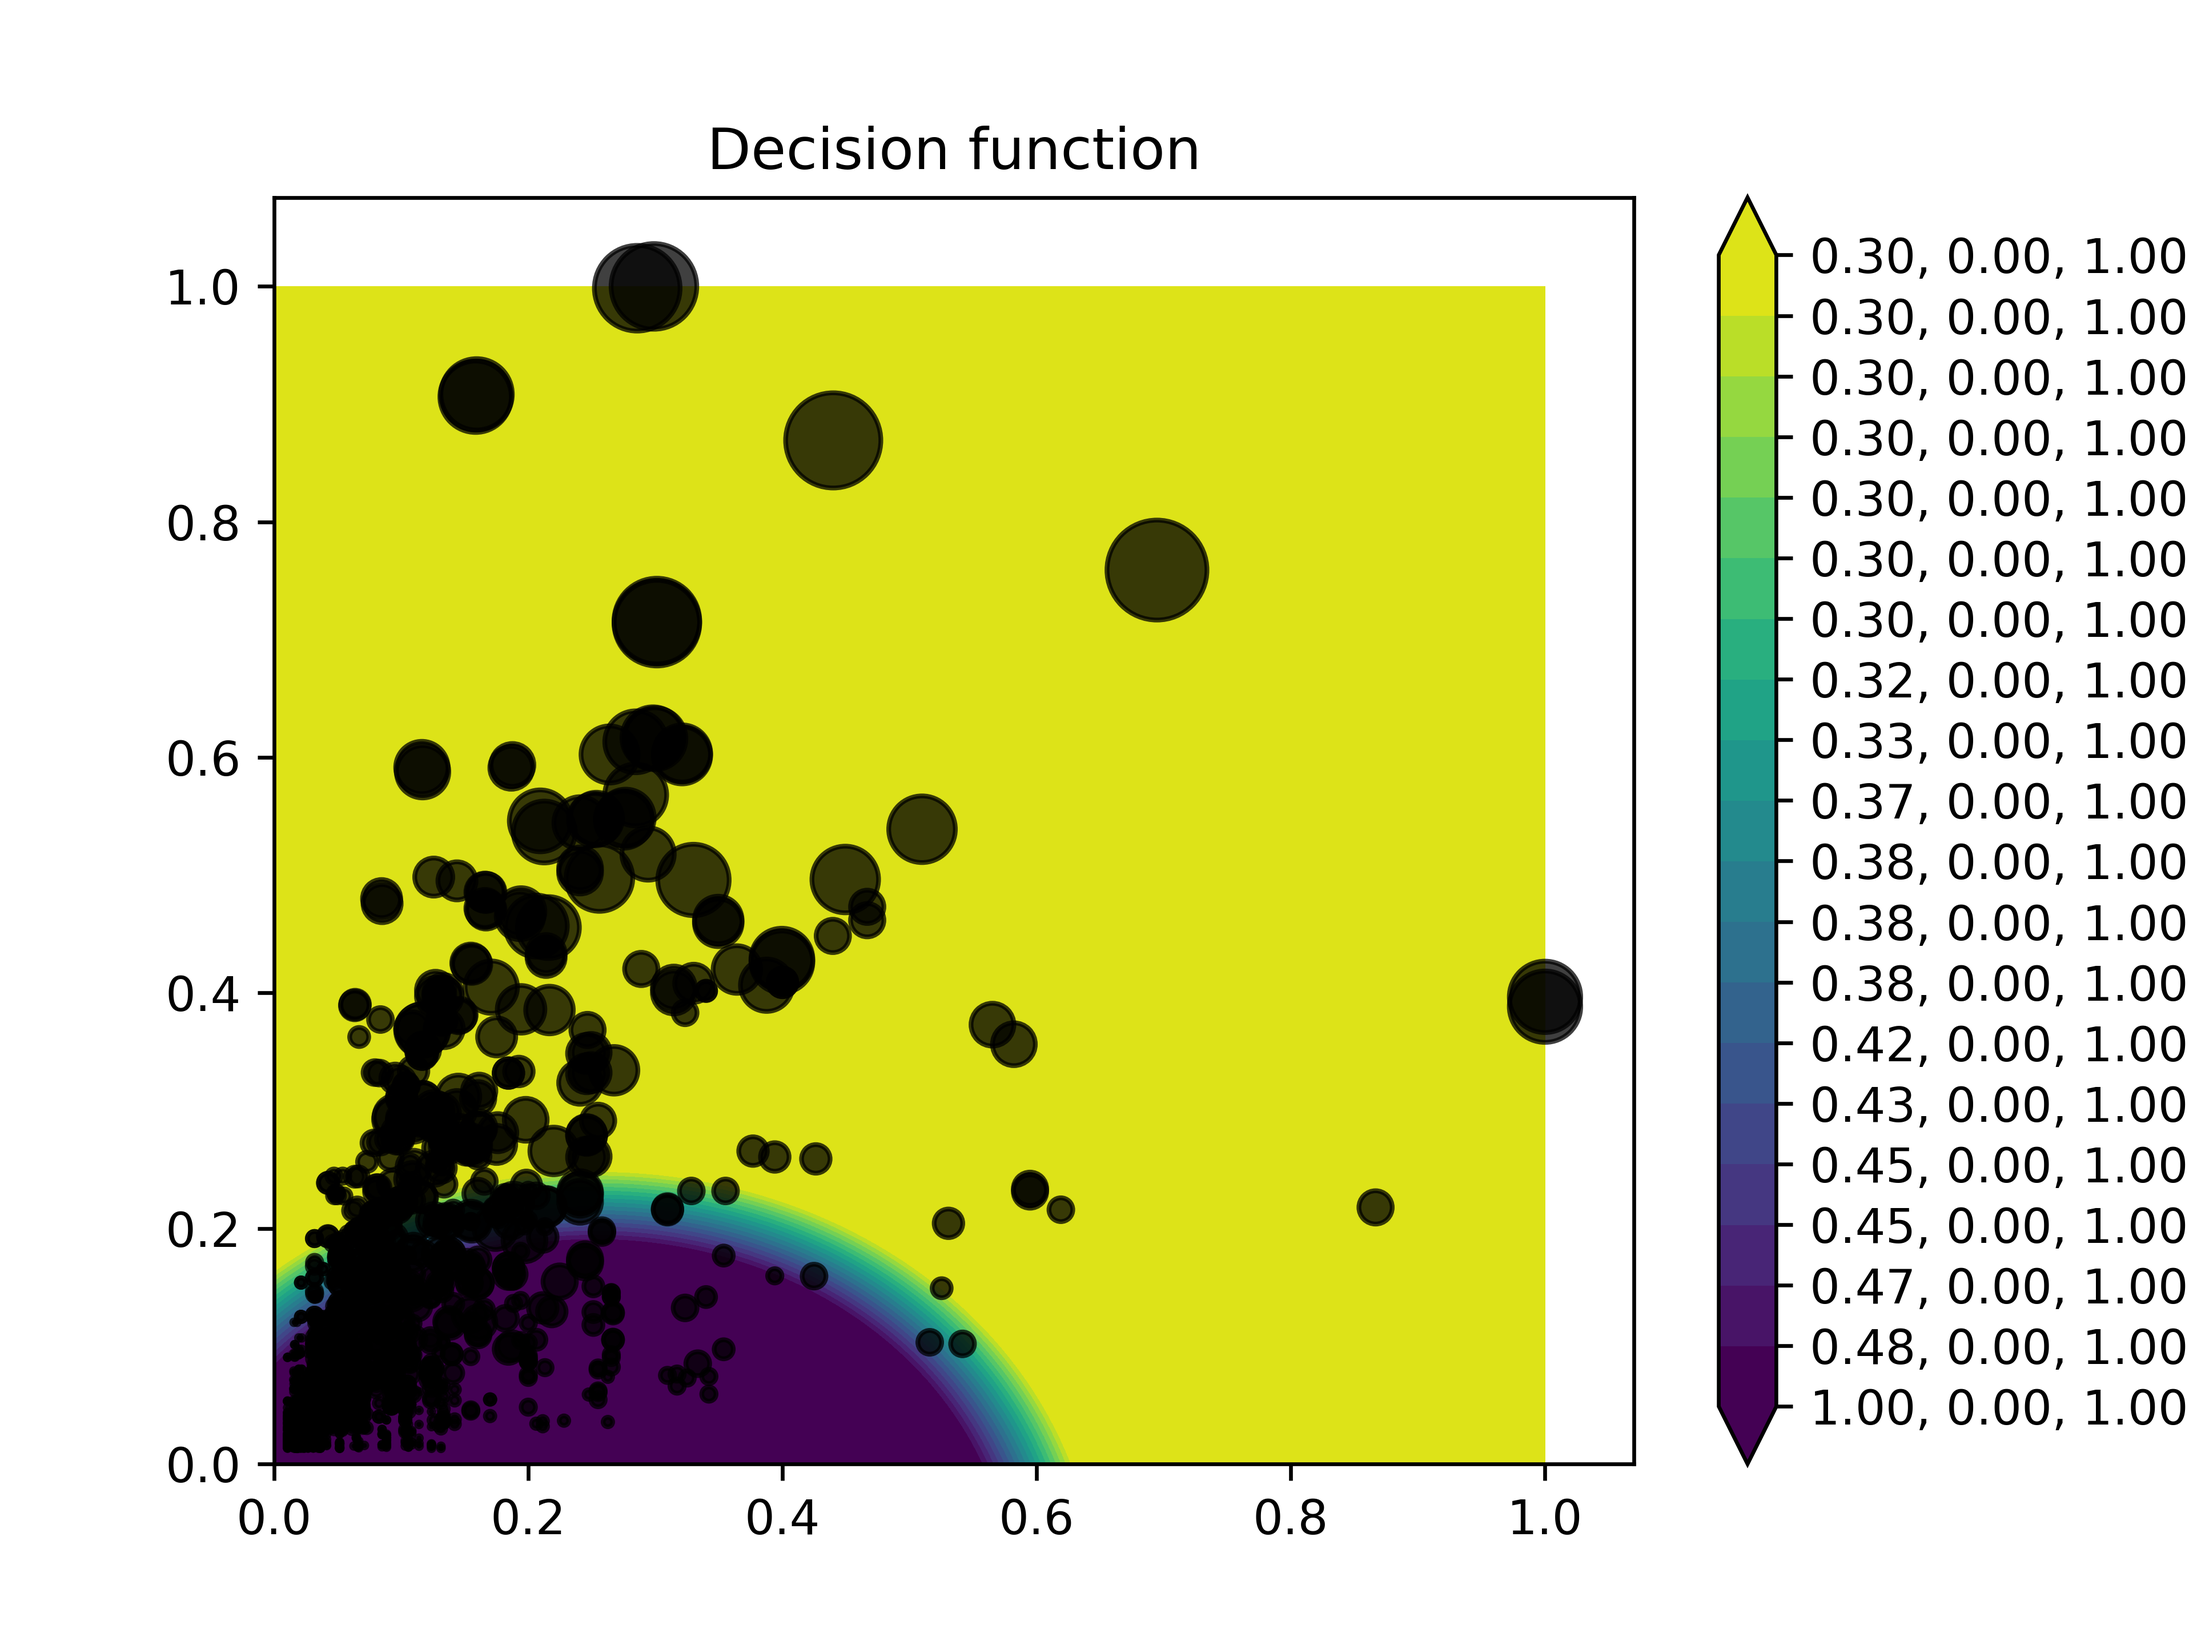
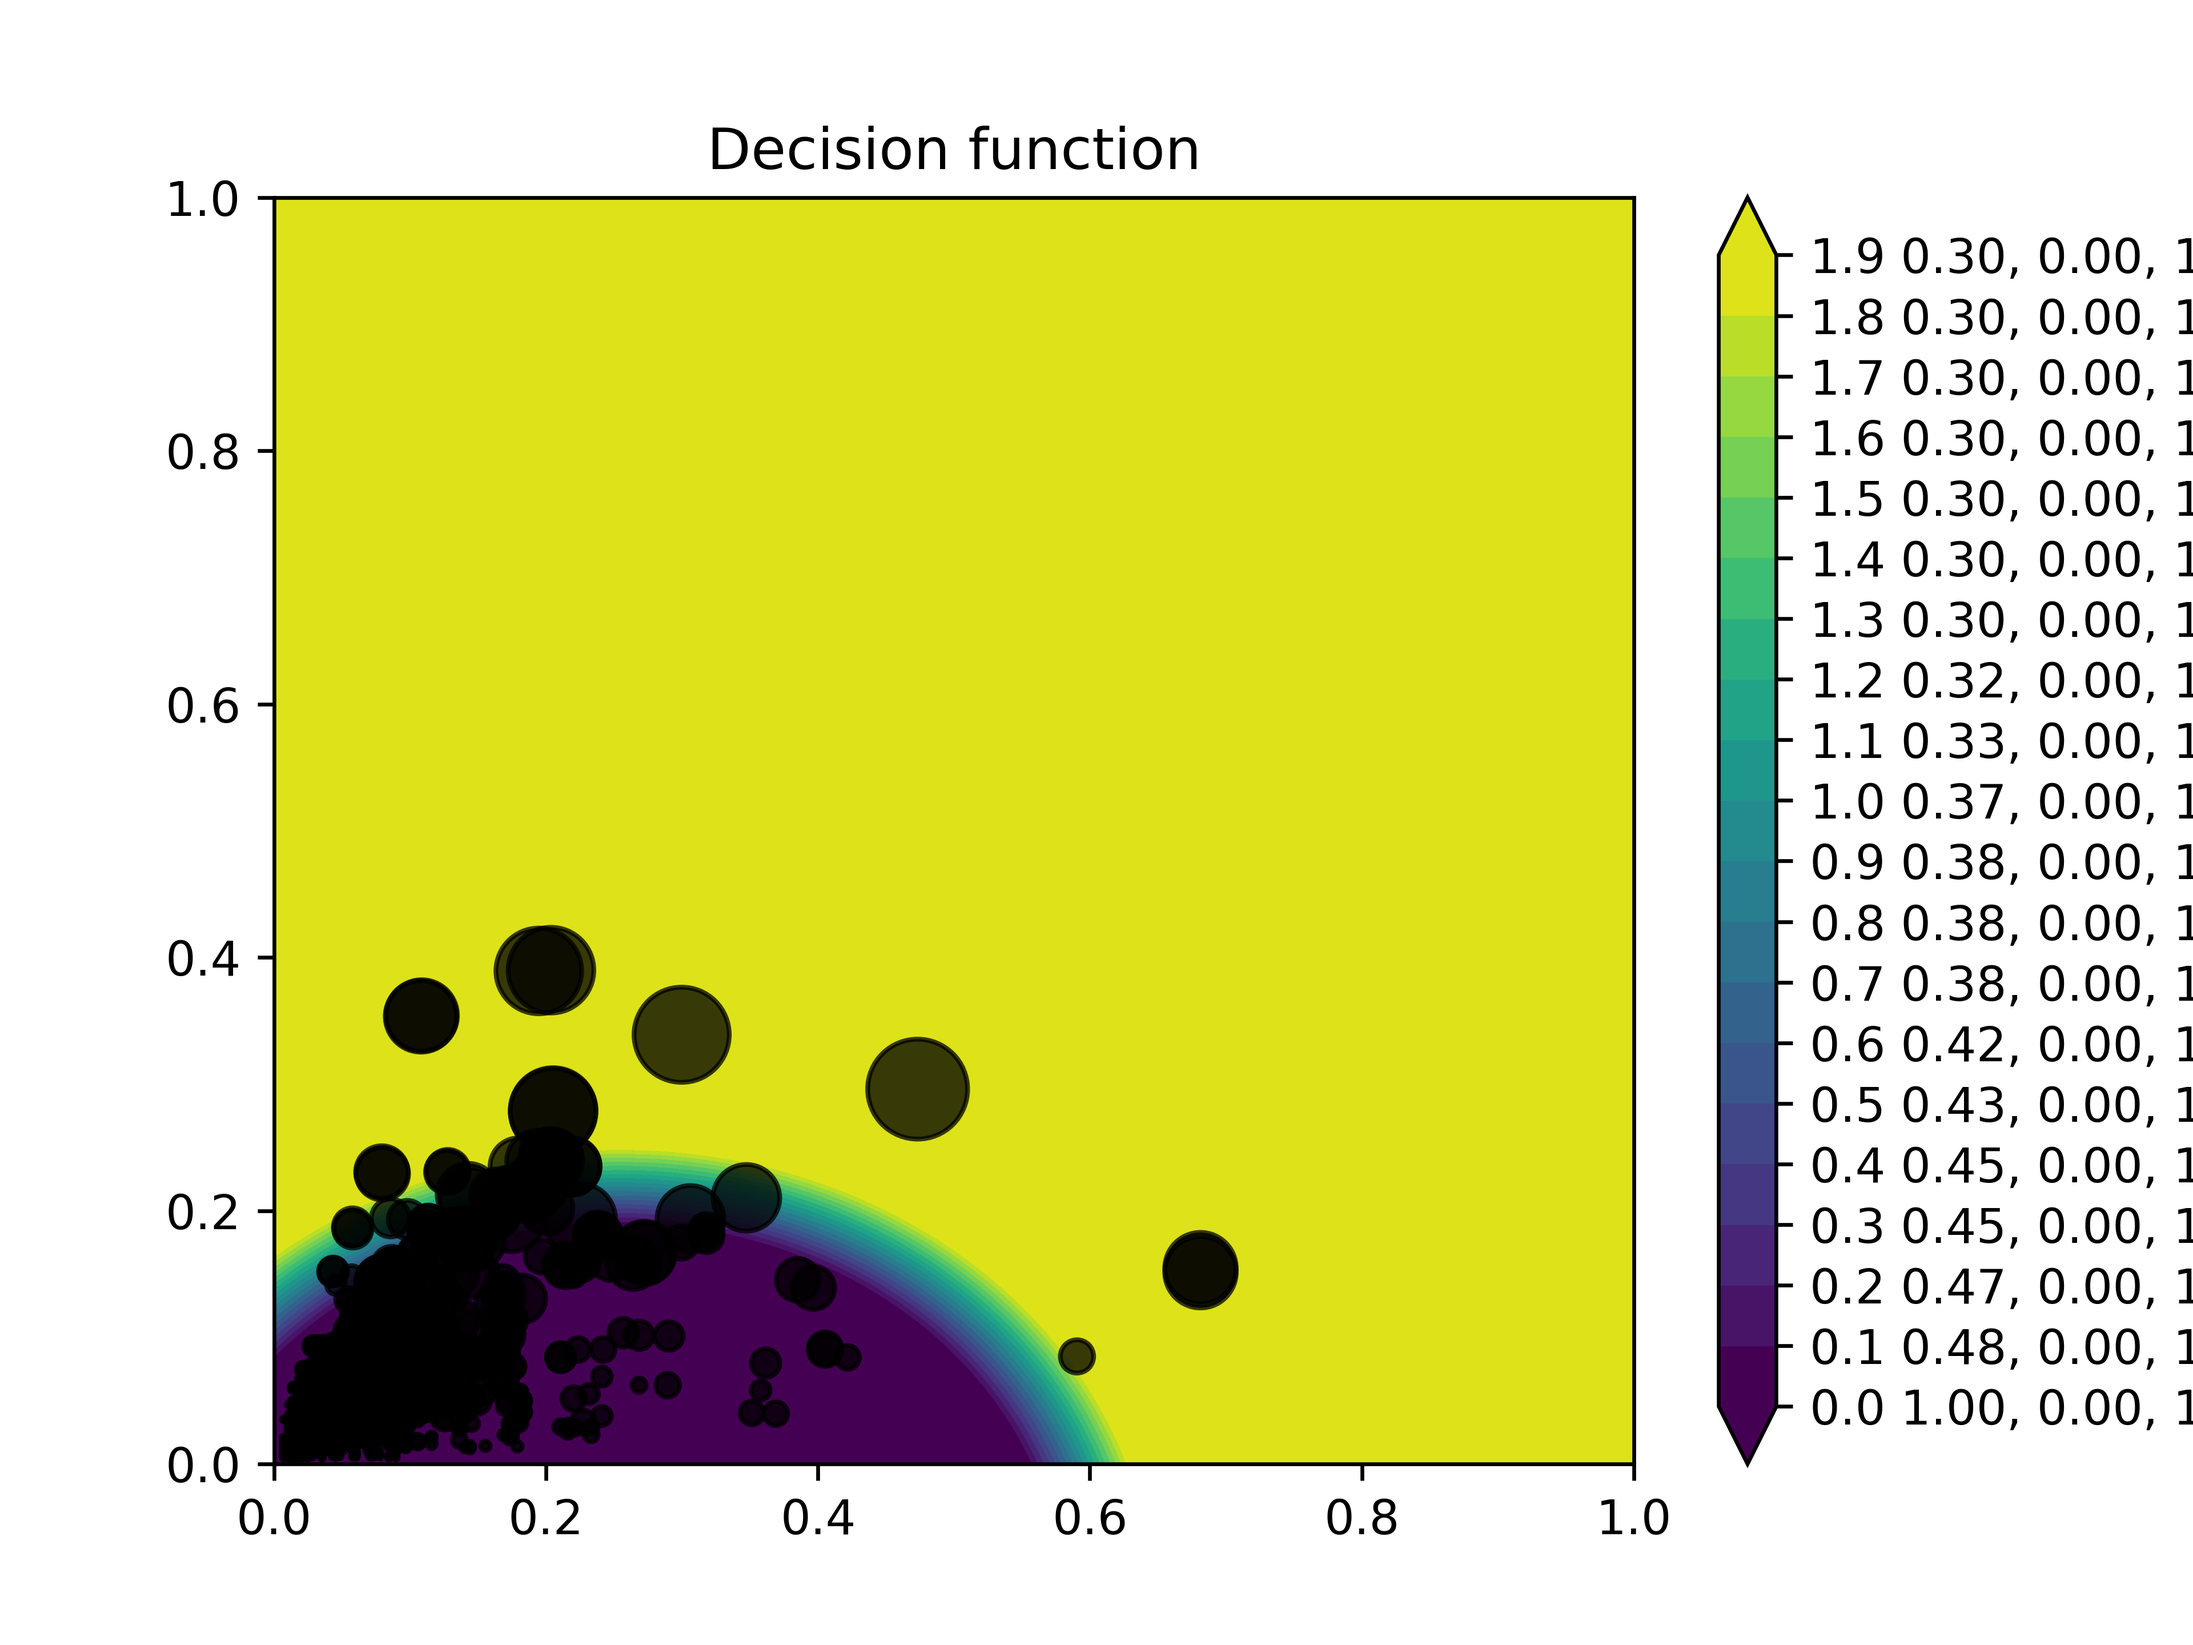
Improving SVM plotting

diff --git a/bin/aln_SVM.py b/bin/aln_SVM.py
@@ -26,7 +26,9 @@ def create_and_parse_argument_options(argument_list):
     commandline_args = parser.parse_args(argument_list)
     return commandline_args, parser
 
-def load_our_data(csv_location):
+
+
+def load_csv_data(comm_args):
     '''
     Reads a csv outputted from MultiPhyMeas.py, entries starting with A_ and B_ are considered as + data
     and entries starting with C_ and D_ as - data. Normalizes all the data for x and y in the range 0,1
@@ -35,6 +37,7 @@ def load_our_data(csv_location):
     data_xy = []
     data_identity = []
     data_weights = []
+    csv_location = comm_args.csv_path
     with open(csv_location) as csv_file:
         csv_reader = csv.reader(csv_file, delimiter=',')
         line_count = 0
@@ -51,7 +54,10 @@ def load_our_data(csv_location):
             line_count+=1
     data_xy_normx = []
     for tups in data_xy:
-        data_xy_normx.append([float(tups[0]/max(np.asarray(data_xy)[:,0])),float(tups[1]/max(np.asarray(data_xy)[:,1]))])
+        if comm_args.train:
+            data_xy_normx.append([float(tups[0]/max(np.asarray(data_xy)[:,0])),float(tups[1]/max(np.asarray(data_xy)[:,1]))])
+        elif comm_args.test:
+            data_xy_normx.append([float(tups[0])/float(comm_args.max_features[0]),float(tups[1])/float(comm_args.max_features[1])])
     return np.asarray(data_xy_normx), np.asarray(data_identity), data_weights, max(np.asarray(data_xy)[:,0]), max(np.asarray(data_xy)[:,1])
 
 def test_function(comm_args, decision_function):
@@ -65,9 +71,6 @@ def test_function(comm_args, decision_function):
         line_count = 0
         for entry in csv_reader:
             if line_count != 0:
-                #2 features
-                #test_segment = np.array([float(entry[2])/float(comm_args.max_features[0]),float(entry[3])/float(comm_args.max_features[1])])
-                #3 features
                 test_segment = np.array([float(entry[2])/float(comm_args.max_features[0]),float(entry[3])/float(comm_args.max_features[1])])
                 segment_pred = decision_function.predict(test_segment.reshape(1,-1))[0]
                 segment_dist = decision_function.decision_function(test_segment.reshape(1,-1))[0]
@@ -95,9 +98,15 @@ def mass_test(segment_pred_dist, min_threshold=0,max_threshold=2, step=0.1):
         if aln_name.split("_")[0] not in grouped_data.keys():
             grouped_data[aln_name.split("_")[0]] = []
         for segm in segment_pred_dist[aln_name]:
-            if float(segm[1][0]) == 1:
+            # Can be made so that we use a variable range to filter segments by.
+            # Eg do not consider segments with distance greater than -0.5; -0.4 etc.
+            if float (segm[1][1]) > -0.5:
                 pos_sum += 1
-                dist_sum+= segm[1][1]
+                dist_sum += abs(segm[1][1])
+                #dist_sum += segm[1][1]
+            #if float(segm[1][0]) == 1:
+            #    pos_sum += 1
+            #    dist_sum+= segm[1][1]
         grouped_data[aln_name.split("_")[0]].append(dist_sum)
 
     ###   Some plots to visualize different group results   ###
@@ -106,7 +115,7 @@ def mass_test(segment_pred_dist, min_threshold=0,max_threshold=2, step=0.1):
     #for ax, group in zip(axes.ravel(), sorted(grouped_data.keys())):
     #    ax.hist(grouped_data[group])
     #    ax.set_title(group)
-    #plt.savefig('./outputs/SVM/2ftesting_bali.png', dpi=600)
+    #plt.savefig('./outputs/SVM/2ftesting.png', dpi=600)
     #plt.clf()
 ###
     #list_for_hist = []
@@ -115,7 +124,7 @@ def mass_test(segment_pred_dist, min_threshold=0,max_threshold=2, step=0.1):
     #fig, axes = plt.subplots(1, 1)
     #axes.hist(list_for_hist, label=sorted(grouped_data.keys()),histtype='barstacked', bins=30)
     #axes.legend(prop={'size': 10})
-    #plt.savefig('./outputs/SVM/2ftesting_bali_hists.png', dpi=600)
+    #plt.savefig('./outputs/SVM/2ftesting_hists.png', dpi=600)
 
     ###   Calculate Sensitivity(tpr), Specificity(tnr) and Precision   ###
     ###   over a range of distances from the decision boundary         ###
@@ -125,10 +134,10 @@ def mass_test(segment_pred_dist, min_threshold=0,max_threshold=2, step=0.1):
         for group in grouped_data.keys():
             if group == 'A' or group == 'B':
                 fn += sum(i<thr for i in grouped_data[group])
-                tp += len(grouped_data[group])-sum(i<thr for i in grouped_data[group])
+                tp += sum(i>=thr for i in grouped_data[group])
             if group == 'C' or group == 'D':
                 tn += sum(i<thr for i in grouped_data[group])
-                fp += len(grouped_data[group])-sum(i<thr for i in grouped_data[group])
+                fp += sum(i>=thr for i in grouped_data[group])
         tpr = bypass_zero_division(tp,tp+fn)
         tnr = bypass_zero_division(tn,tn+fp)
         precision = bypass_zero_division(tp,tp+fp)
@@ -147,27 +156,32 @@ def plot_decision_function(classifier,X,y, sample_weight, axis, fig, title, deci
     Z = Z.reshape(xx.shape)
     vir_cmap = plt.cm.get_cmap('viridis')
 
-    ###   Add some comments pls   ###
+    ###   Draws each decision level (if present) with color from the viridis colormap   ###
     if decision_levels is not '':
+        # Specifies under and over values to first and last color of the colormap
         vir_cmap.set_under(vir_cmap(0))
         vir_cmap.set_over(vir_cmap(1))
         CS1 = axis.contourf(xx, yy, Z, sorted(decision_levels.keys()), 
                             colors=vir_cmap(np.linspace(0, 1, len(decision_levels)))
                             ,extend='both')
         cbar = fig.colorbar(CS1, ticks=sorted(decision_levels.keys()))
-        levels_labels = ["%.2f, %.2f, %.2f" % decision_levels[f] for f in sorted(decision_levels.keys())]
-        cbar.set_ticklabels(levels_labels)
+        levels_labels = ["%.2f, %.2f, %.2f" %decision_levels[thr] for thr in sorted(decision_levels.keys())]
+        #cbar.set_ticklabels(levels_labels)
 
+        cbar.set_ticklabels(["%.1f %s" % (thr,lev) for lev,thr in zip(levels_labels, sorted(decision_levels.keys()))])
+
+        ###   Draws a line for each decision level   ###
         #axis.contour(xx, yy, Z, colors='r', levels=[0], alpha=0.5, linestyles=['-'])
         #CS2 = axis.contour(xx, yy, Z, colors='k', levels=sorted(decision_levels.keys()),
         #                    alpha=0.5, linestyles=['-'])
         #axis.clabel(CS2, fmt='%2.1f', colors='r', fontsize=2)
+    ###   Draws the decision function as a red line   ###
     else:
-        axis.contour(xx, yy, Z, colors='r', levels=[decision_levels], alpha=0.5, linestyles=['-'])
+        axis.contour(xx, yy, Z, colors='r', levels=[0], alpha=0.5, linestyles=['-'])
 
     abs_length = [float(n)**2 for n in sample_weight]
     axis.scatter(X[:, 0], X[:, 1], c=y, s=abs_length, alpha=0.75,
-                cmap=plt.cm.bone, edgecolors='black')
+                 cmap=plt.cm.bone, edgecolors='black')#  
 
     #axis.axis('off')
     axis.set_title(title)
@@ -179,7 +193,7 @@ def main(commandline_arguments):
     ###   Load alignment segment data   ###
     X = []
     y = []
-    X, y, sample_weight, maxX, maxY = load_our_data(comm_args.csv_path)
+    X, y, sample_weight, maxX, maxY = load_csv_data(comm_args)
 
     ###   Training mode  ###
     if comm_args.train:
@@ -201,14 +215,26 @@ def main(commandline_arguments):
             raise ValueError("In test mode providing maximal values for the classifier features is required!")
         decision_function = cPickle.load(open(comm_args.test, 'rb'))
         segment_pred_dist = test_function(comm_args, decision_function)
-        dist_to_se_sp_pr = mass_test(segment_pred_dist)
+        for aln_name in sorted(segment_pred_dist.keys()):
+            print(aln_name)
+            for segment in segment_pred_dist[aln_name]:
+                if segment[1][1] > -0.5:
+                    print(segment)
+                #if segment[1][0] == 1:
+                #    print(segment)
+        dist_to_se_sp_pr = mass_test(segment_pred_dist, min_threshold=-1, max_threshold=1)
 
     ###   Plot the classifier   ###
     if comm_args.plot_df:
-        fig, axes = plt.subplots(1, 1)
-        plot_decision_function(decision_function,X,y, sample_weight, axes, fig,
+        fig, axes = plt.subplots(1, 1, )
+        if comm_args.test:
+            plot_decision_function(decision_function,X,y, sample_weight, axes, fig,
                                     "Decision function", decision_levels=dist_to_se_sp_pr)
-        plt.savefig(comm_args.plot_df, dpi=600)
+        if comm_args.train:
+            plot_decision_function(decision_function,X,y, sample_weight, axes, fig,
+                                    "Decision function")
+        plt.tight_layout()
+        plt.savefig(comm_args.plot_df, dpi=600, bbox_inches='tight')
 
 
 if __name__ == '__main__':
